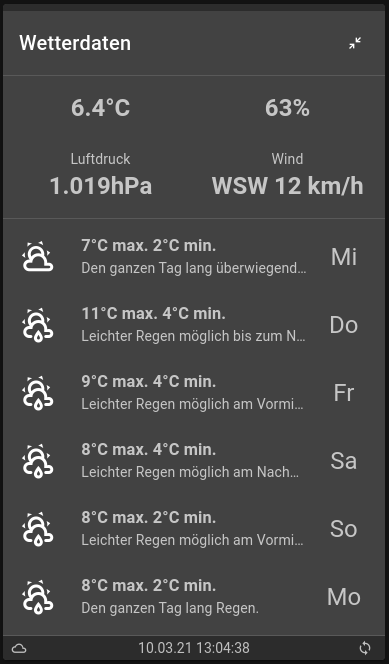
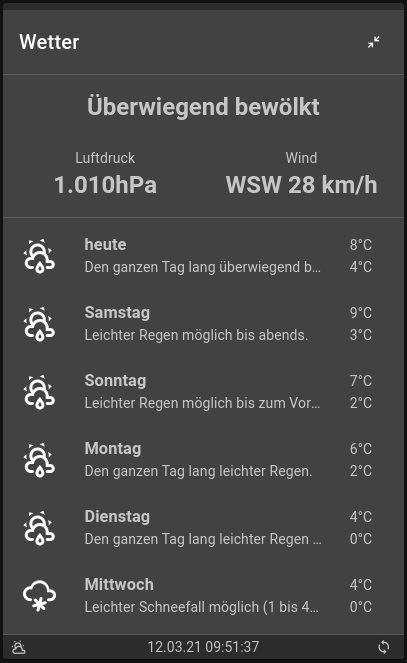
Optimizing Weather Template

diff --git a/src/components/TemplWeather.vue b/src/components/TemplWeather.vue
@@ -14,14 +14,8 @@
 
       <v-card-text>
         <v-row align="center">
-          <v-col align="center" v-if="!active">
+          <v-col align="center">
             <div class="headline font-weight-bold">{{ vals.mainState }}</div>
-          </v-col>
-          <v-col align="center" v-if="active">
-            <div class="headline font-weight-bold">{{ vals.temp }}</div>
-          </v-col>
-          <v-col align="center" v-if="active">
-            <div class="headline font-weight-bold">{{ vals.hum }}</div>
           </v-col>
         </v-row>
 
@@ -45,11 +39,12 @@
             <v-icon large>{{ day.icon }}</v-icon>
           </v-col>
           <v-col class="text-truncate">
-            <h3>{{ day.temp }}</h3>
+            <h3>{{ day.weekday }}</h3>
             <span>{{ day.condition }}</span>
           </v-col>
-          <v-col class="headline col-2 pl-0" align="center">
-            {{ day.weekday }}
+          <v-col class="col-2 pl-0" align="center">
+            <div>{{ day.temp_max }}</div>
+            <div>{{ day.temp_min }}</div>
           </v-col>
         </v-row>
       </v-card-text>
@@ -77,30 +72,37 @@
       name: 'weather',
       iconSet: {
         // Weather Darksky - Icons
-        'sunny': 'mdi-weather-sunny',
-        'fog': 'mdi-weather-fog',
-        'cloudy': 'mdi-weather-cloudy',
-        'partly_cloudy': 'mdi-weather-partly-cloudy',
-        'partly_cloudy_night': 'mdi-weather-night-partly-cloudy',
-        'chance_of_rain': 'mdi-weather-partly-rainy',
+        sunny: 'mdi-weather-sunny',
+        fog: 'mdi-weather-fog',
+        cloudy: 'mdi-weather-cloudy',
+        partly_cloudy: 'mdi-weather-partly-cloudy',
+        partly_cloudy_night: 'mdi-weather-night-partly-cloudy',
+        chance_of_rain: 'mdi-weather-partly-rainy',
 
-        'clear_day': 'mdi-weather-sunny',
-        'hail': 'mdi-weather-hail',
-        'rain': 'mdi-weather-rainy',
-        'sleet': 'mdi-weather-snowy-rainy',
-        'snow': 'mdi-weather-snowy',
-        'thunderstorm': 'mdi-weather-lightning',
-        'windy': 'mdi-weather-windy',
-        'clear_night': 'mdi-weather-night'
+        clear_day: 'mdi-weather-sunny',
+        hail: 'mdi-weather-hail',
+        rain: 'mdi-weather-rainy',
+        sleet: 'mdi-weather-snowy-rainy',
+        snow: 'mdi-weather-snowy',
+        thunderstorm: 'mdi-weather-lightning',
+        windy: 'mdi-weather-windy',
+        clear_night: 'mdi-weather-night'
+      },
+      weekdays: {
+        Mo: 'Montag',
+        Di: 'Dienstag',
+        Mi: 'Mittwoch',
+        Do: 'Donnerstag',
+        Fr: 'Freitag',
+        Sa: 'Samstag',
+        So: 'Sonntag'
       },
       vals: {
         order: '',
         title: '',
-        mainState: '',
         mainLevel: 0,
         mainColor: 'success',
-        temp: '',
-        hum: '',
+        mainState: '',
         pressure: '',
         wind: '',
         forecast: [],
@@ -121,18 +123,12 @@
           let lastevent = this.$fhem.getEl(val, 'Readings', 'validity', 'Time');
           let activity = this.$fhem.getEl(val, 'Readings', 'validity', 'Value');
           let icon = this.$fhem.getEl(val, 'Readings', 'icon', 'Value');
-          let temp_ext = this.$fhem.getEl(val, 'Connected', 'thermometer', 'Readings', 'temperature', 'Value');
-          let hum_ext = this.$fhem.getEl(val, 'Connected', 'thermometer', 'Readings', 'humidity', 'Value');
-          let temp = this.$fhem.getEl(val, 'Readings', 'temperature', 'Value');
-          let hum = this.$fhem.getEl(val, 'Readings', 'humidity', 'Value');
           let press = this.$fhem.getEl(val, 'Readings', 'pressure', 'Value');
           let wind = this.$fhem.getEl(val, 'Readings', 'wind_condition', 'Value');
 
           this.vals.order = this.$fhem.getEl(val, 'Attributes', 'sortby') || 'last';
           this.vals.title = this.$fhem.getEl(val, 'Attributes', 'alias') || val.Name;
-
-          this.vals.temp = (temp_ext ? temp_ext : temp) + '°C';
-          this.vals.hum = (hum_ext ? hum_ext : hum) + '%';
+          this.vals.mainState = this.$fhem.getEl(val, 'Readings', 'condition', 'Value') || '';
 
           this.vals.systemIcon = this.getIcon(icon);
           this.vals.pressure = press ? parseInt(press).toLocaleString('de-DE') + 'hPa' : '';
@@ -153,6 +149,14 @@
     },
 
     methods: {
+      getIcon(icon) {
+        if(icon && this.iconSet[icon]) {
+          return this.iconSet[icon];
+        } else {
+          this.vals.systemIconValue = icon;
+        }
+      },
+
       loadForecast() {
         this.vals.forecast.splice(0);
 
@@ -164,10 +168,12 @@
           let min = this.$fhem.getEl(this.item, 'Readings', 'fc' + i + '_low_c', 'Value') || '--';
 
           let day = {
-            weekday,
+            weekday: i === 1 ? 'heute' : this.weekdays[weekday],
             condition,
             icon: this.getIcon(icon),
-            temp: max +'°C max. ' + min +'°C min.'
+            temp: max +'°C max. ' + min +'°C min.',
+            temp_max: max + '°C',
+            temp_min: min + '°C'
           };
 
           this.vals.forecast.push(day);
@@ -182,14 +188,6 @@
           this.expanded = true;
           this.maxIcon = 'mdi-arrow-collapse';
           this.loadForecast();
-        }
-      },
-
-      getIcon(icon) {
-        if(icon && this.iconSet[icon]) {
-          return this.iconSet[icon];
-        } else {
-          this.vals.systemIconValue = icon;
         }
       }
     },
